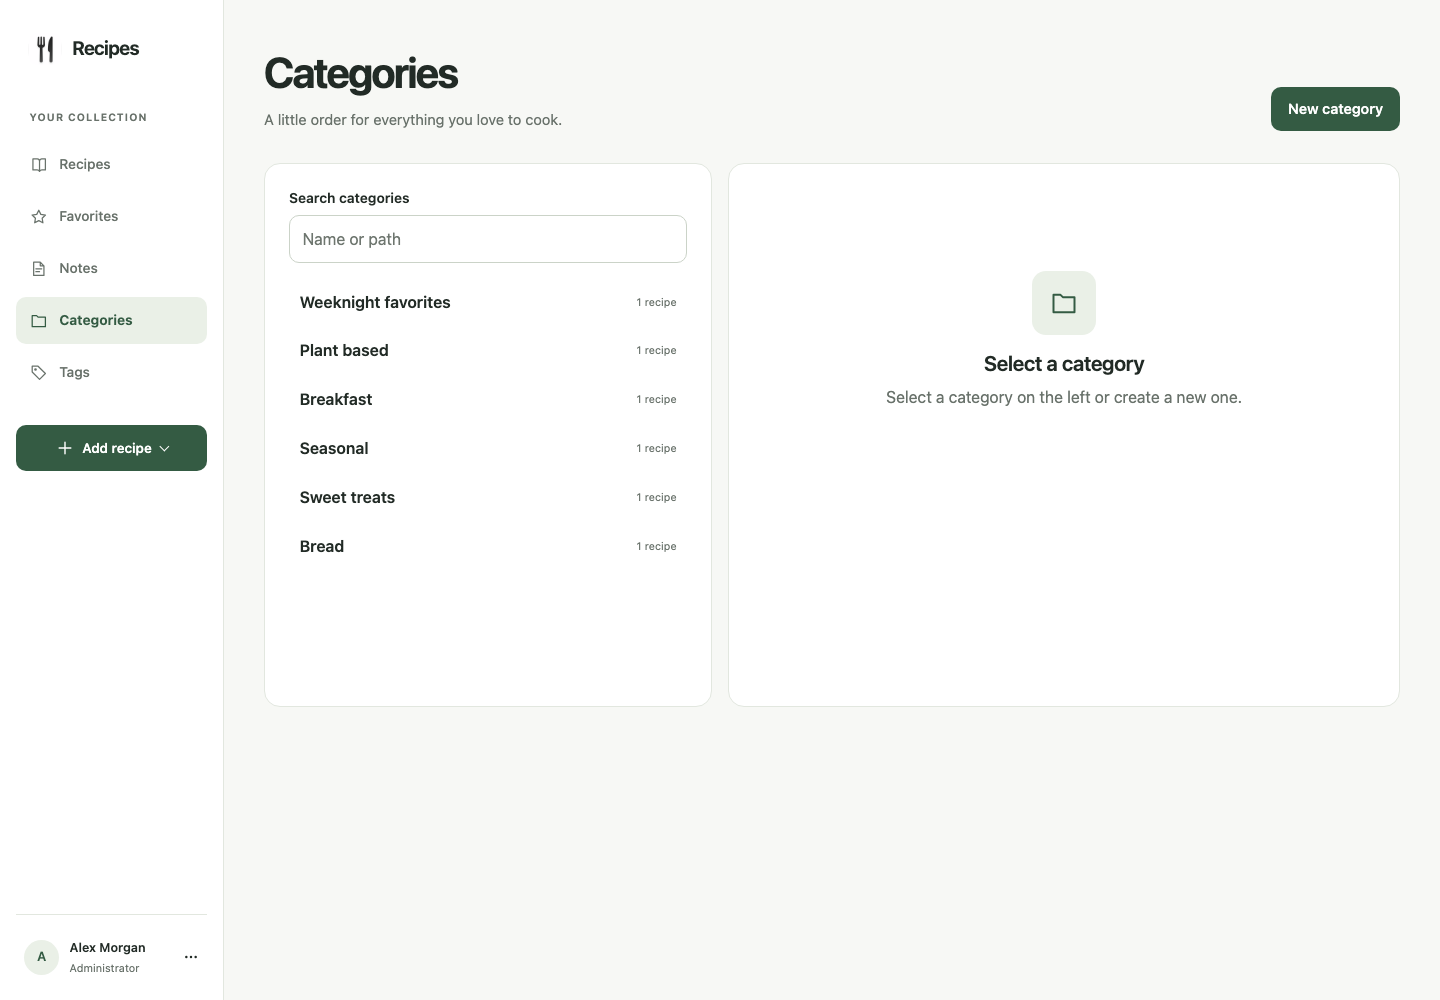
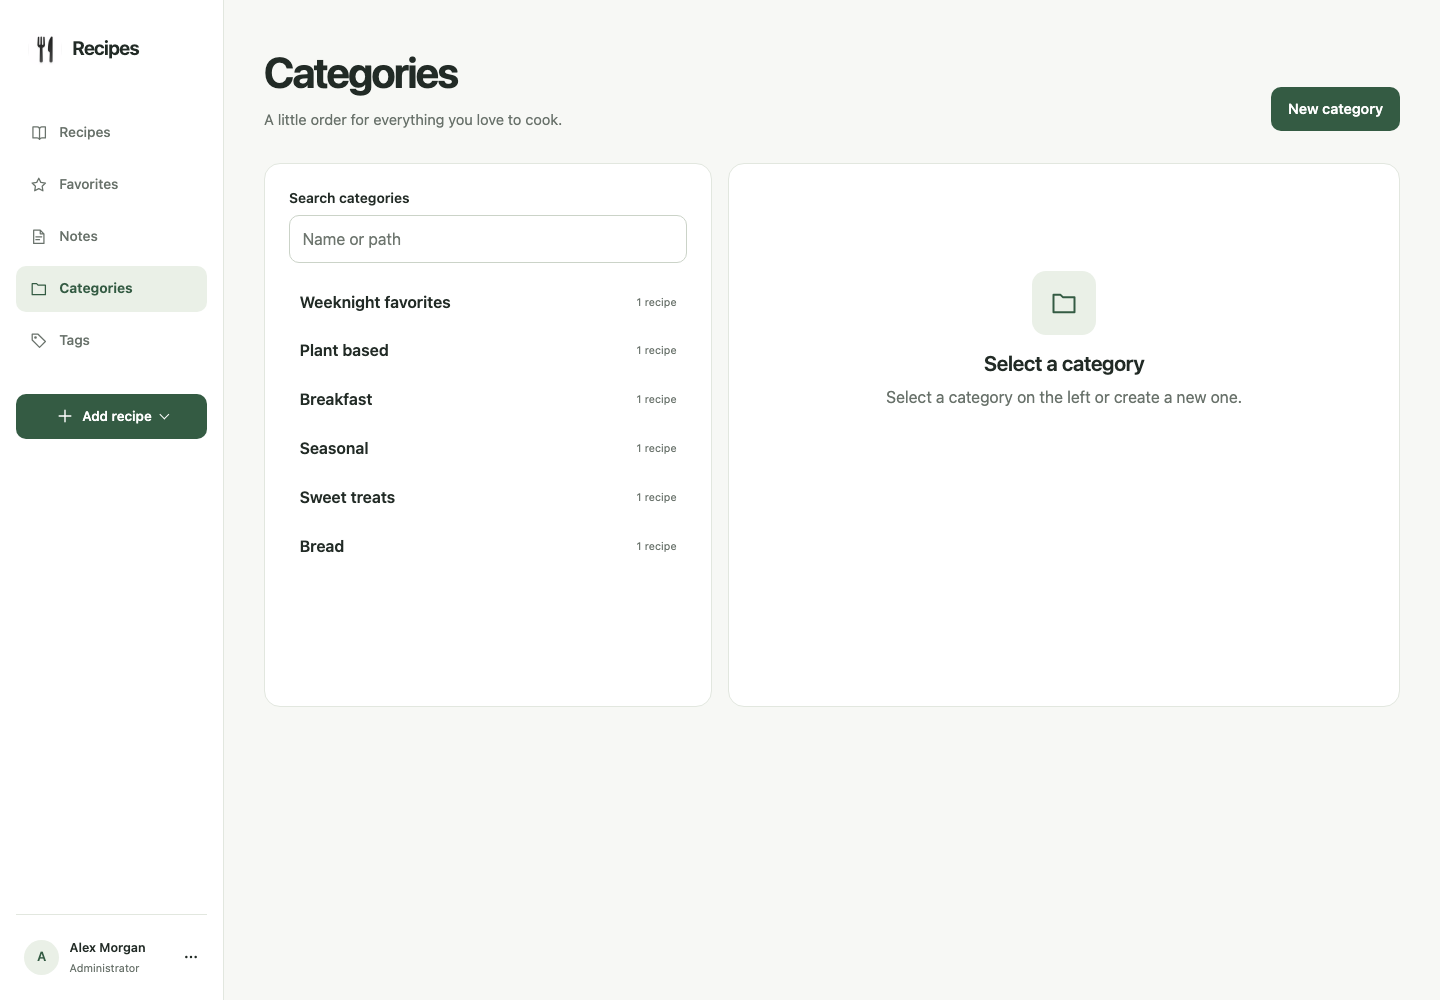
Remove collection subtitles from the app

Changed region(s): [[0.0, 0.093, 0.1562, 0.496]]

diff --git a/app/static/css/app.css b/app/static/css/app.css
@@ -74,13 +74,11 @@ hr { border: 0; border-top: 1px solid var(--line); }
 
 /* Shared visual language */
 .ui-icon { display: inline-block; width: 1.25rem; height: 1.25rem; flex: 0 0 auto; vertical-align: middle; }
-.eyebrow, .nav-label { color: var(--muted); font-size: .7rem; font-weight: 650; letter-spacing: .1em; text-transform: uppercase; }
-.eyebrow { margin-bottom: .8rem; }
 .page-intro { max-width: 54ch; margin: .65rem 0 0; color: var(--muted); font-size: .92rem; line-height: 1.6; }
 .page-heading > div { min-width: 0; }
 .results-summary { margin: 0 0 var(--space-4); color: var(--muted); font-size: .76rem; }
 .recipe-search__toolbar { display: flex; flex-wrap: wrap; align-items: center; justify-content: space-between; gap: var(--space-3); }
-.account-menu__label, .account-menu__more, .nav-label { display: none; }
+.account-menu__label, .account-menu__more { display: none; }
 .desktop-nav > a { display: flex; align-items: center; gap: .75rem; }
 .note-private-badge .ui-icon { width: .85rem; height: .85rem; }
 .upload-zone__icon { display: grid; width: 2.75rem; height: 2.75rem; place-items: center; margin-bottom: .5rem; border: 1px solid var(--line); border-radius: var(--radius-sm); background: var(--surface); }
@@ -813,7 +811,6 @@ body[data-page="recipe-shares"] .share-empty small { margin-top: .25rem; font-si
   .app-layout .brand { gap: .65rem; margin: 0 .75rem 2.75rem; }
   .app-layout .brand__mark { width: 2.1rem; }
   .desktop-nav { flex: 1; flex-direction: column; align-items: stretch; gap: .35rem; margin: 0; padding-bottom: 1.5rem; overflow-y: auto; }
-  .nav-label { display: block; margin: 0 .85rem .65rem; font-size: .65rem; }
   .desktop-nav > a:not(.button) { min-height: 2.9rem; padding: .7rem .85rem; font-size: .86rem; border-radius: var(--radius-sm); }
   .desktop-nav > a[aria-current="page"] { background: var(--accent-soft); color: var(--accent); font-weight: 650; }
   .desktop-nav > a .ui-icon { width: 1.1rem; height: 1.1rem; }
@@ -835,7 +832,6 @@ body[data-page="recipe-shares"] .share-empty small { margin-top: .25rem; font-si
 @media (max-width: 35.999rem) {
   .page-shell { width: calc(100% - 2.5rem); padding-top: 1.75rem; }
   .recipe-search { gap: 1rem; }
-  .recipe-search .eyebrow { display: none; }
   .site-header__inner { width: calc(100% - 2rem); min-height: 4rem; }
   .recipe-search__toolbar { gap: 1rem; }
   .recipe-search__kind { width: 100%; }

diff --git a/app/templates/base.html b/app/templates/base.html
@@ -36,7 +36,6 @@
       </a>
       {% if current_user %}
       <nav class="desktop-nav" aria-label="{{ t('nav.main') }}">
-        <p class="nav-label">{{ t("design.collection") }}</p>
         <a href="/rezepte" {% if request.url.path.startswith('/rezepte') and request.url.path != '/rezepte/neu' %}aria-current="page"{% endif %}>{{ icon('book') }}<span>{{ t("nav.recipes") }}</span></a>
         <a href="/favoriten" {% if request.url.path == '/favoriten' %}aria-current="page"{% endif %}>{{ icon('star') }}<span>{{ t("nav.favorites") }}</span></a>
         <a href="/notizen" {% if request.url.path == '/notizen' %}aria-current="page"{% endif %}>{{ icon('note') }}<span>{{ t("nav.notes") }}</span></a>

diff --git a/app/templates/recipes/list.html b/app/templates/recipes/list.html
@@ -8,7 +8,6 @@
 <form class="recipe-search" role="search" method="get" action="{{ search_action }}" data-recipe-search>
   <section class="page-heading page-heading--with-action recipe-search__heading">
     <div>
-      <p class="eyebrow">{{ t("design.collection") }}</p>
       <h1{% if not trash_mode|default(false) %} data-recipe-kind-heading{% endif %}>{{ t('recipes.trash_title') if trash_mode|default(false) else (t('recipes.kind.' ~ selected_recipe_kind) if selected_recipe_kind else t('recipes.title')) }}</h1>
       {% if not trash_mode|default(false) %}<p class="page-intro">{{ t("design.recipes_intro") }}</p>{% endif %}
     </div>

diff --git a/app/i18n.py b/app/i18n.py
@@ -891,13 +891,6 @@ MESSAGES: Final[dict[Locale, dict[str, str]]] = {
 # supported locales obvious during review. The order is English, German,
 # Simplified Chinese, Hindi, Spanish.
 _UI_MESSAGE_ROWS: Final[dict[str, tuple[str, str, str, str, str]]] = {
-    "design.collection": (
-        "Your collection",
-        "Deine Sammlung",
-        "你的收藏",
-        "आपका संग्रह",
-        "Tu colección",
-    ),
     "design.recipes_intro": (
         "Good food starts here. Find something you’ll love to make.",
         "Gutes Essen beginnt hier. Finde etwas, das du gerne kochst.",
